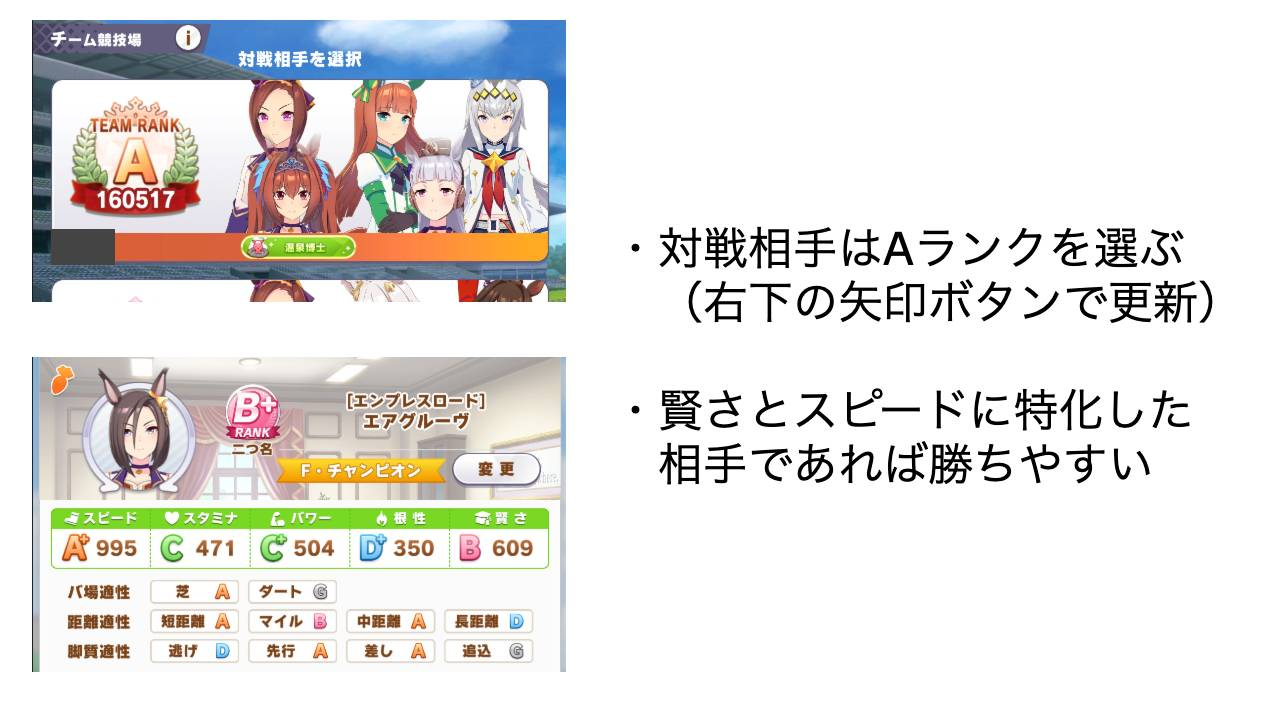
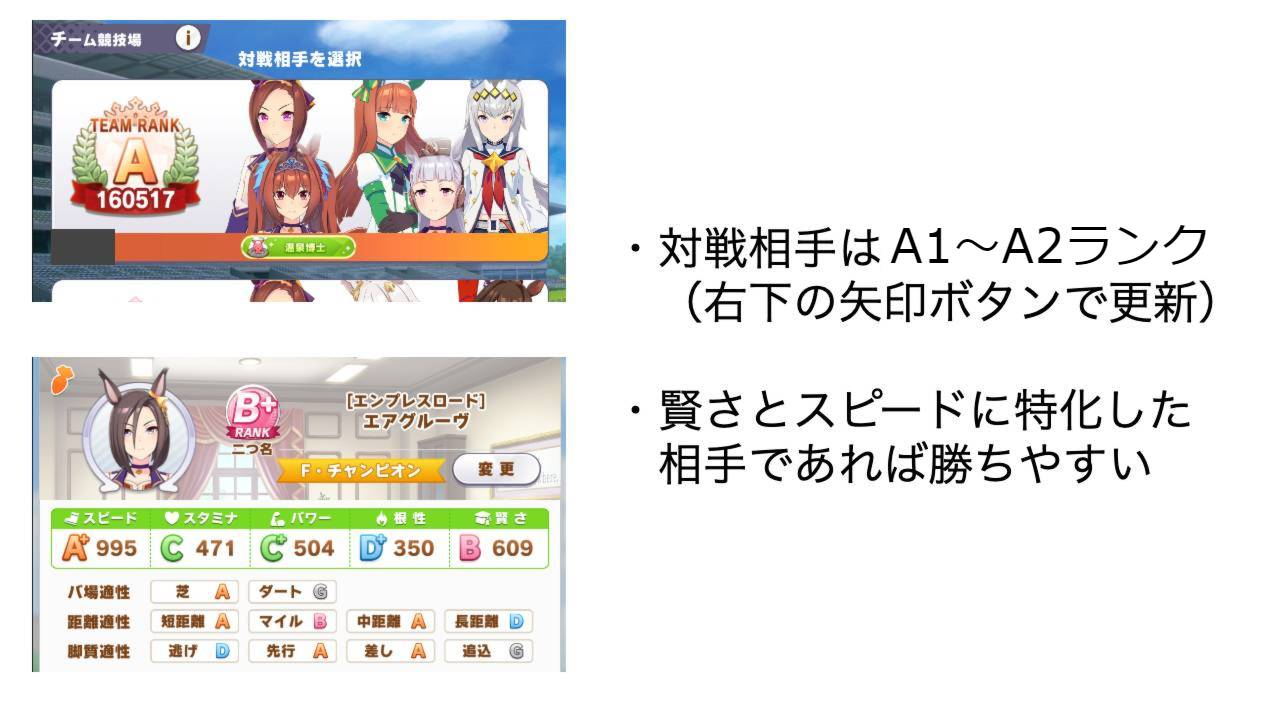
Update blog

Changed region(s): [[0.6875, 0.3056, 0.9375, 0.3667]]

diff --git a/public/contents/blog/2021-04-19-umamusume-class6/index.md b/public/contents/blog/2021-04-19-umamusume-class6/index.md
@@ -12,9 +12,9 @@ hero: 20210530-team.jpg
 ざっくり概要。
 
 - **クラス 6 維持ボーダーは 532,000 になる予定**。
-- **チームランク B3 でクラス 6 挑戦権獲得**。星 1 ～ 2 編成でも十分作れます
+- **チームランク A でクラス 6 挑戦権獲得**。星 1 ～ 2 編成でも十分作れます
 - **育成は目標ステータスを必ず決める**。ステ 2 つを厳選して成長させる
-- **対戦相手は常に A ランクを選ぶ**。スタミナやパワーが低い相手へ全力勝負
+- **対戦相手は A1 ランク以上を選ぶ**。スタミナやパワーが低い相手へ全力勝負
 - **稼げないキャラから再育成する**。戦績下位、20,000pts. が基準
 
 参考までに、私のチーム編成と、サポカのカードプールです。
@@ -35,7 +35,7 @@ hero: 20210530-team.jpg
 | 2021/5/16 | 513,430         | +6,146  | (534,779)   |
 | 2021/5/23 | 514,870         | +1,440  | (538,304)   |
 | 2021/5/30 | **524,899**     | +10,029 | (599,155)   |
-| 2021/6/6  | (526,653)       | (-)     | (543,695)   |
+| 2021/6/6  | (528,993)       | (-)     | (545,250)   |
 
 ここ最近の クラス 6 維持ボーダーの履歴は上記のとおりでした。**次週 6/6 は、532,000 点がボーダーラインになると予想されます**。
 
@@ -69,9 +69,7 @@ hero: 20210530-team.jpg
 
 **編成時はなるべく脚質をバラけさせ**、全員がナイスポジション+1000 点をゲットできるようにします。ナイスポジションは脚質ごとに 1 名選ばれるそうです。噂ではポジションごとの先頭キャラに与えられるのではないかと耳にしています。
 
-（5/30: 文字のみ更新）
-
-~~チームランクは B3 ランク以上を目指します。A ランクの対戦相手に全勝できることがクラス 6 維持の基準になり、A ランクの対戦相手が選択肢に出る条件はこちらが B3 以上であるためです。B3 ランク達成は、編成キャラの半分が B+ で半分が A になっていれば可能です。~~　ここ最近のボーダーライン上昇ペースを考慮すると、A1 ランクの対戦相手ボーナスが必要になってくると予想されます。そのため**自身のチームランクも A ランク以上を目指す必要**が出てきました。
+チームランクは A ランク以上を目指します。A1 ランクの対戦相手に全勝できることがクラス 6 維持の基準になり、A1 ランクの対戦相手が選択肢に出る条件はこちらが A 以上であるためです。A ランク達成は、編成キャラの平均ランクが A になっていれば可能です。
 
 # 育成
 
@@ -211,9 +209,7 @@ hero: 20210530-team.jpg
 
 ![対戦相手](opponent.jpg)
 
-（5/30: 文字のみ更新）
-
-**常に ~~A ランク~~ A1 ランク以上の相手を選びます。A1 ランクに全勝できればクラス 6 維持圏に乗ることが可能です**。A1 ランクが出ない場合は、右下の更新ボタンを押せば、リシャッフルしてくれます。なお A1 ランクの対戦相手は、自分が A ランク以上であることが出現条件になります。
+**常に A1 ランク以上の相手を選びます。A1 ランクに全勝できればクラス 6 維持圏に乗ることが可能です**。A1 ランクが出ない場合は、右下の更新ボタンを押せば、リシャッフルしてくれます。なお A1 ランクの対戦相手は、自分が A ランク以上であることが出現条件になります。
 
 A1 ランクの人を選んだあと、ステータスが勝てそうな場合であれば、パフェで盛って全力勝負に行きましょう！　**具体的には「スタミナが低い」＋「賢さが高い」チームが攻略対象となります**。対戦相手のステータスはキャラアイコンを長押しして確認できます。時間がなければエースだけでも確認しましょう。
 
